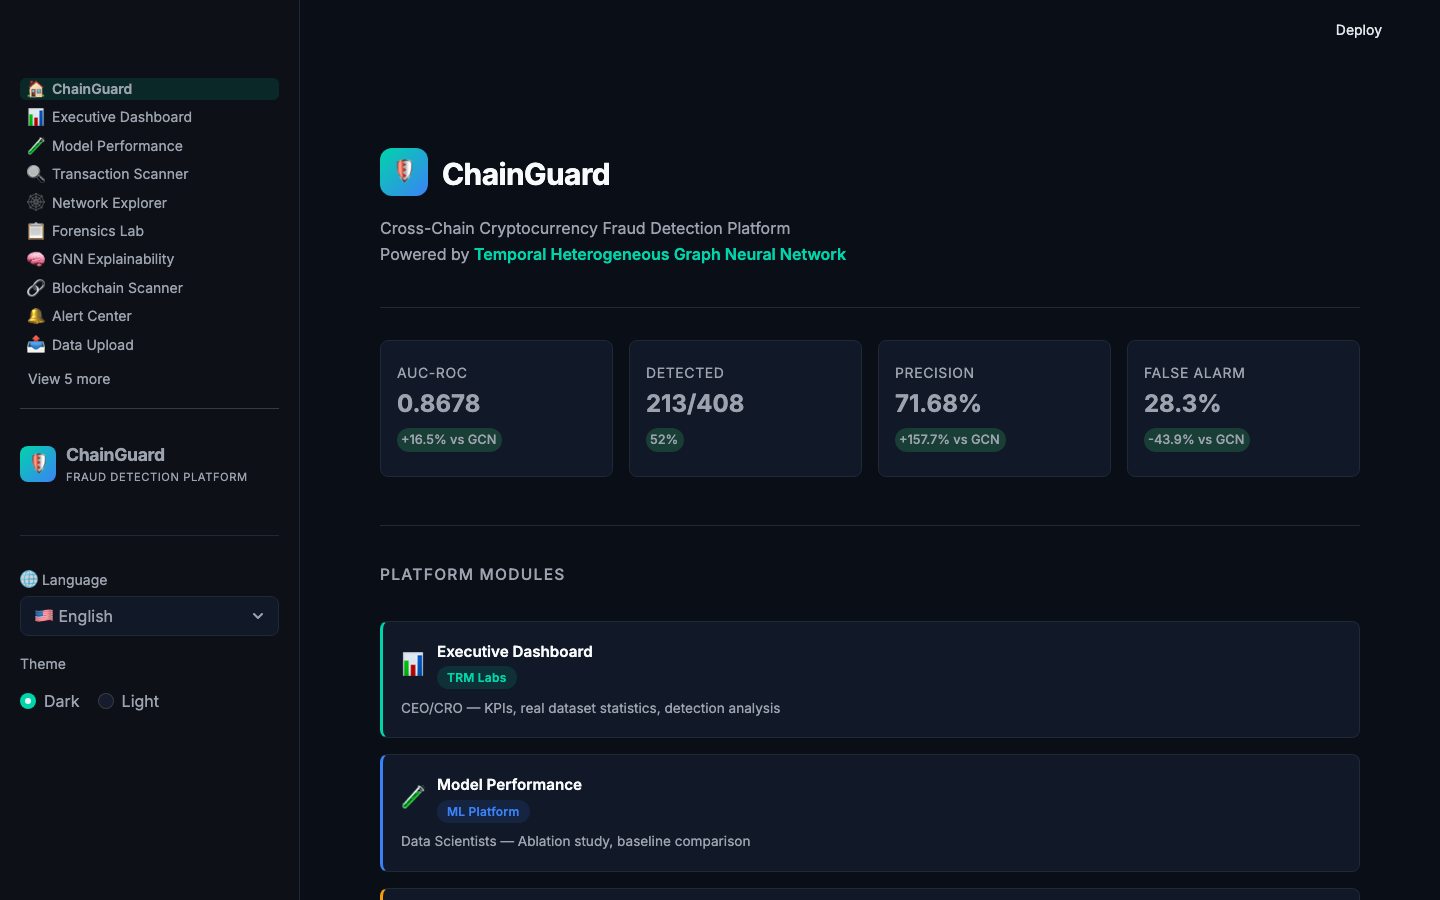
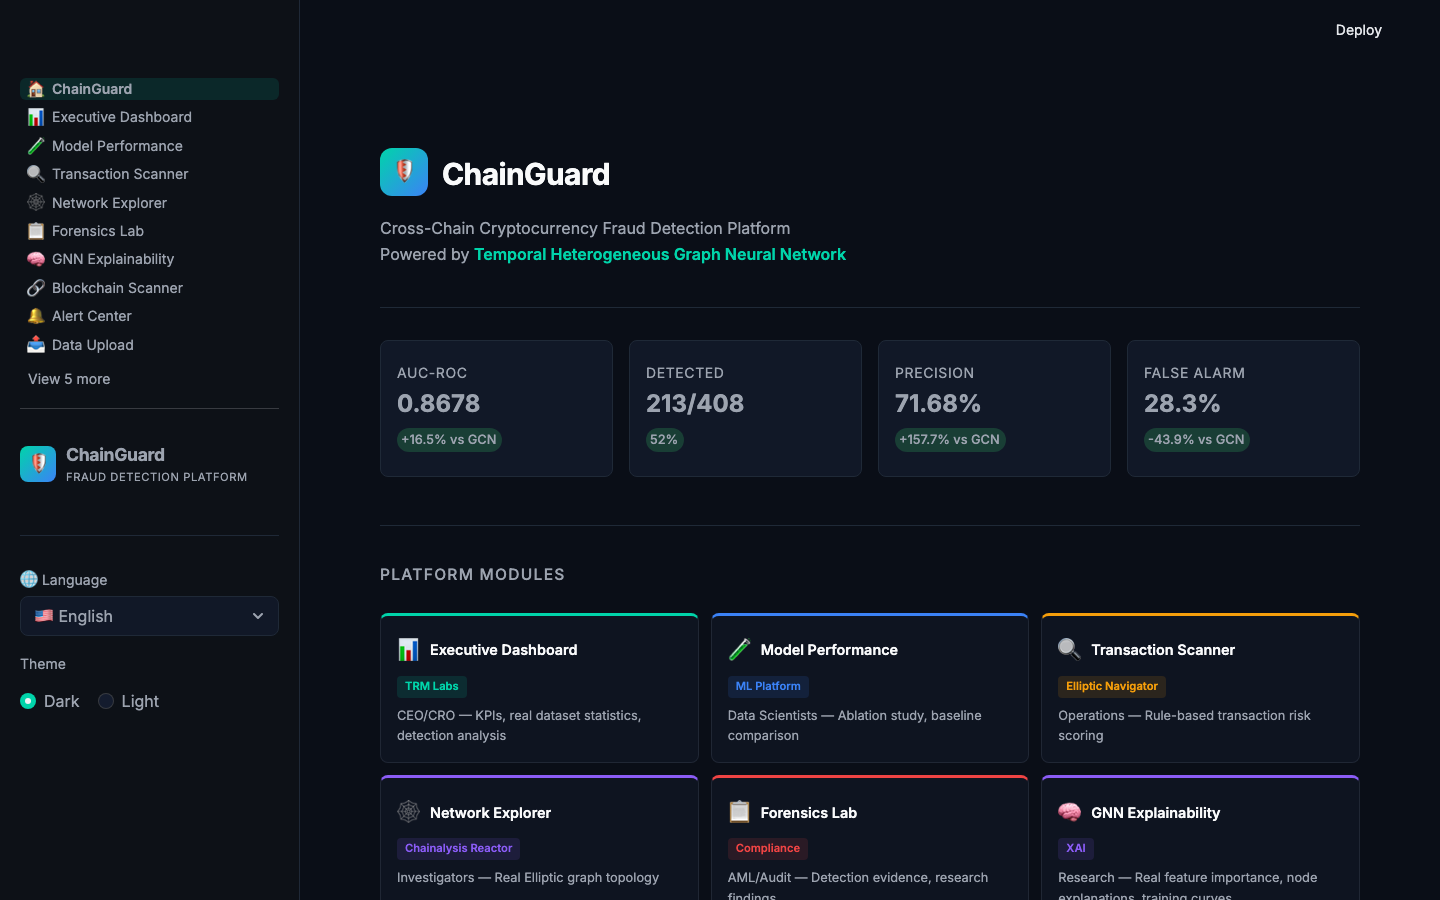
feat: add grid home page, GitHub Actions CI, and Streamlit Cloud entry point
- Upgrade home page from vertical list to 3-column card grid (14 modules)
- Add SQL Analytics module card to home page
- Add GitHub Actions CI workflow (pytest on Python 3.10 + 3.12)
- Add live CI badge to README (replaces static badge)
- Create streamlit_app.py entry point for Streamlit Cloud deployment
- Update home page screenshot with new grid layout

diff --git a/dashboard/_lib/home.py b/dashboard/_lib/home.py
@@ -60,21 +60,30 @@ def render(DATA, nav_callback):
         ("\U0001f50e", t("mod_search"), t("mod_search_ref"), t("mod_search_desc"), "#8B5CF6"),
         ("\U0001f4c1", t("mod_cases"), t("mod_cases_ref"), t("mod_cases_desc"), "#F59E0B"),
         ("\U0001f4dc", t("mod_activity"), t("mod_activity_ref"), t("mod_activity_desc"), "#10B981"),
+        ("\U0001f4ca", t("mod_sql_analytics"), "SQL Warehouse", t("sql_subtitle"), "#00D4AA"),
     ]
 
+    cards_html = ""
     for icon, name, ref, desc, color in modules:
-        st.markdown(
-            f'<div class="pattern-card" style="border-left:3px solid {color}">'
-            f'<div style="display:flex; align-items:center; gap:12px">'
-            f'<span style="font-size:1.5rem">{icon}</span>'
-            f'<div>'
-            f'<div style="color:#F9FAFB; font-weight:600; font-size:0.95rem">{name}</div>'
-            f'<span class="badge" style="background:{color}20; color:{color}">{ref}</span>'
-            f'</div></div>'
-            f'<p style="color:#9CA3AF; margin:8px 0 0 0; font-size:0.85rem">{desc}</p>'
-            f'</div>',
-            unsafe_allow_html=True,
+        cards_html += (
+            f'<div style="background:rgba(17,24,39,0.6); border:1px solid rgba(75,85,99,0.3); '
+            f'border-top:3px solid {color}; border-radius:8px; padding:16px; '
+            f'display:flex; flex-direction:column; gap:8px; min-height:120px">'
+            f'<div style="display:flex; align-items:center; gap:10px">'
+            f'<span style="font-size:1.4rem">{icon}</span>'
+            f'<div style="color:#F9FAFB; font-weight:600; font-size:0.9rem">{name}</div>'
+            f'</div>'
+            f'<span style="background:{color}20; color:{color}; padding:2px 8px; '
+            f'border-radius:4px; font-size:0.7rem; font-weight:600; width:fit-content">{ref}</span>'
+            f'<p style="color:#9CA3AF; margin:0; font-size:0.8rem; line-height:1.4">{desc}</p>'
+            f'</div>'
         )
+
+    st.markdown(
+        f'<div style="display:grid; grid-template-columns:repeat(3, 1fr); gap:12px">'
+        f'{cards_html}</div>',
+        unsafe_allow_html=True,
+    )
 
     st.markdown("---")
 

diff --git a/streamlit_app.py b/streamlit_app.py
@@ -1,0 +1,9 @@
+"""Streamlit Cloud entry point — delegates to dashboard/app.py."""
+import runpy
+import sys
+import os
+
+sys.path.insert(0, os.path.join(os.path.dirname(__file__), "dashboard"))
+os.chdir(os.path.join(os.path.dirname(__file__), "dashboard"))
+
+runpy.run_path("dashboard/app.py", run_name="__main__")

diff --git a/README.md b/README.md
@@ -2,10 +2,10 @@
 
 ### Temporal Heterogeneous Graph Neural Networks for Cross-Chain Cryptocurrency Fraud Detection
 
+[![CI](https://github.com/youseihuayu-wonderful/ChainGuard-Crypto-Financial-Fraud-Detection-using-Temporal-Multi-Chain-Graph-Neural-Networks/actions/workflows/ci.yml/badge.svg)](https://github.com/youseihuayu-wonderful/ChainGuard-Crypto-Financial-Fraud-Detection-using-Temporal-Multi-Chain-Graph-Neural-Networks/actions/workflows/ci.yml)
 [![Python 3.10+](https://img.shields.io/badge/python-3.10+-blue.svg)](https://www.python.org/downloads/)
 [![PyTorch](https://img.shields.io/badge/PyTorch-2.0+-ee4c2c.svg)](https://pytorch.org/)
 [![Streamlit](https://img.shields.io/badge/Streamlit-Dashboard-FF4B4B.svg)](https://streamlit.io/)
-[![Tests](https://img.shields.io/badge/tests-pytest-green.svg)](https://pytest.org/)
 [![License: MIT](https://img.shields.io/badge/License-MIT-yellow.svg)](https://opensource.org/licenses/MIT)
 
 ---
